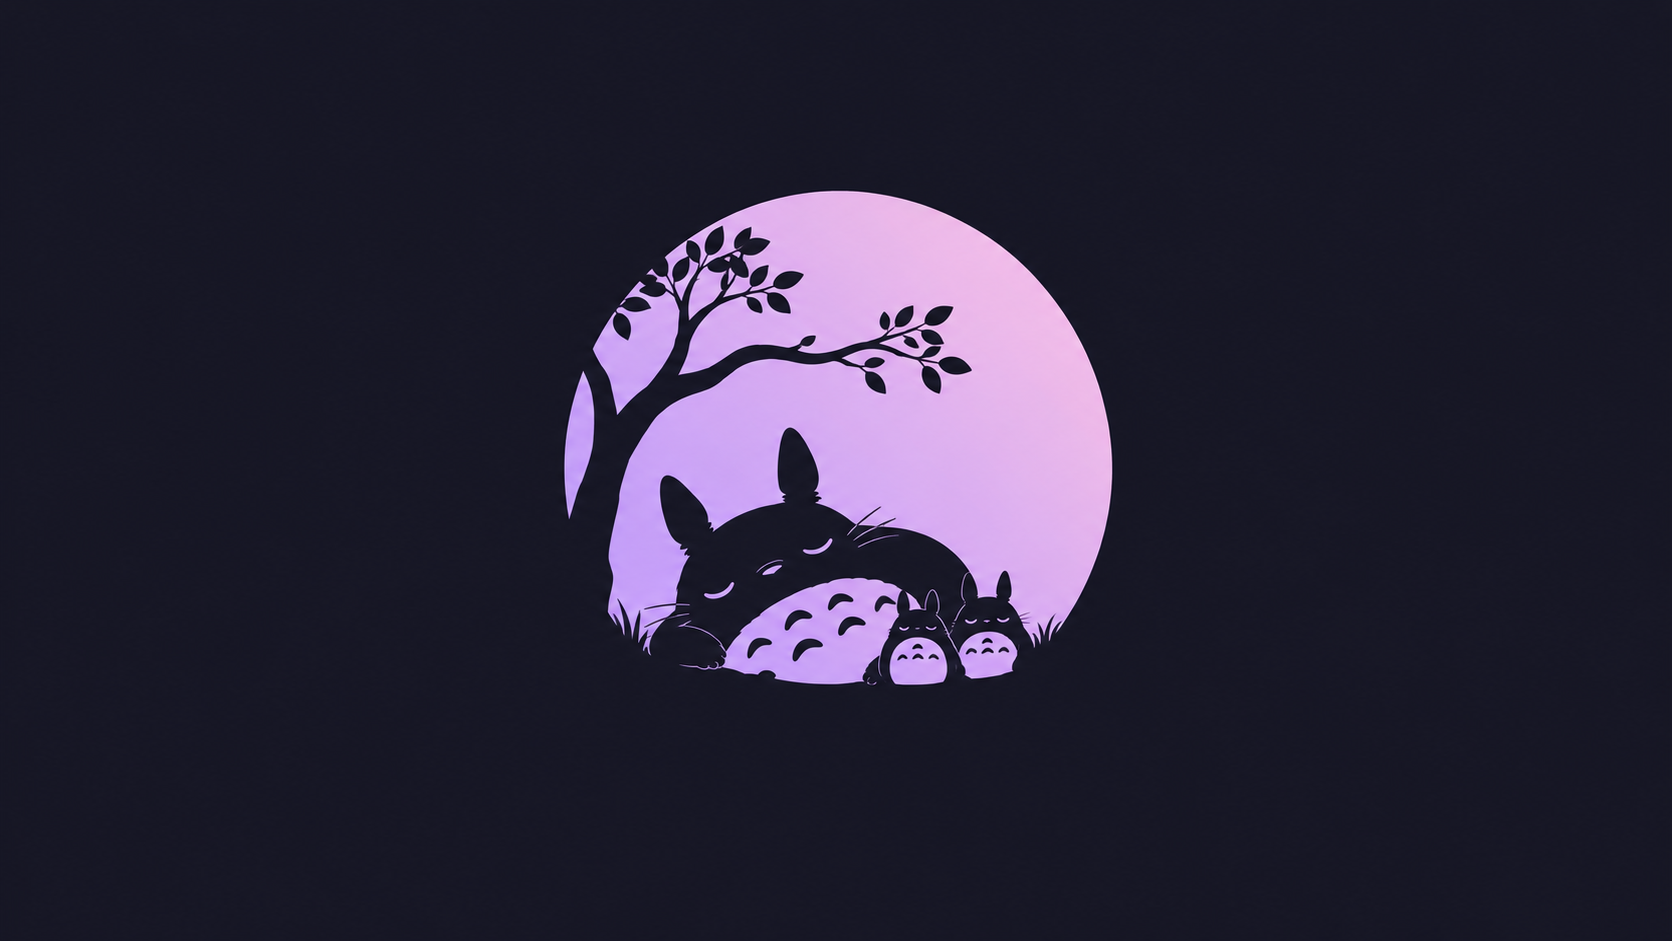
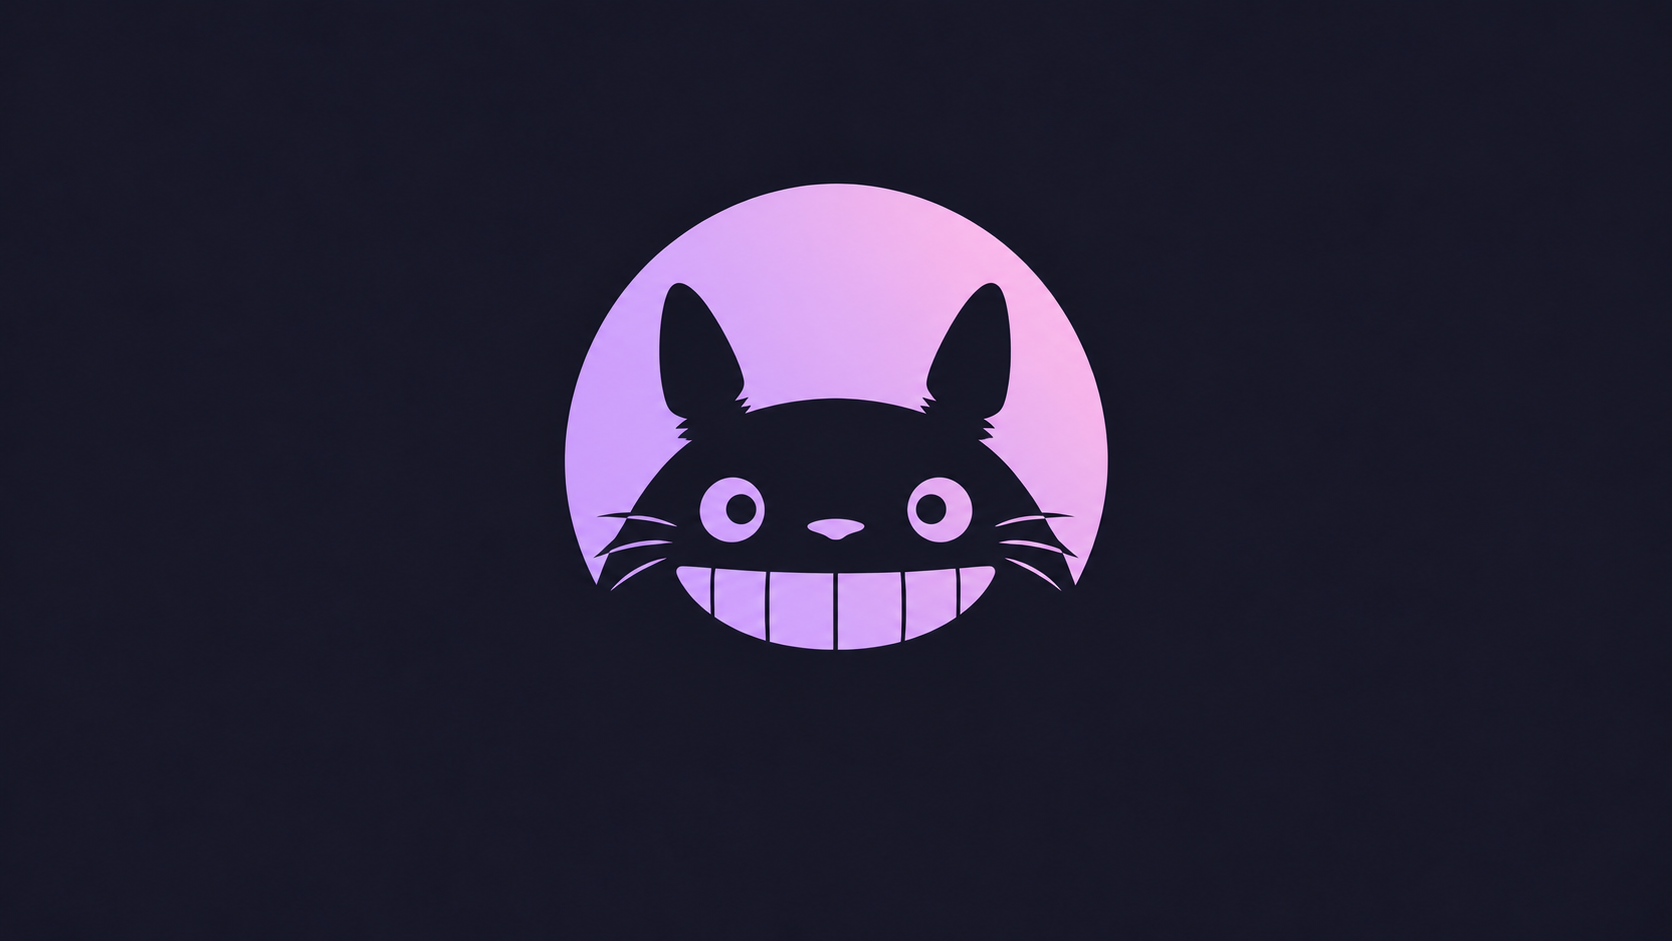
Replace sleeping Totoro scene with smiling face close-up

Changed region(s): [[0.3421, 0.1849, 0.6842, 0.7396], [0.5598, 0.2157, 0.5909, 0.2465]]

diff --git a/docs/CATPPUCCIN-WALLPAPERS.md b/docs/CATPPUCCIN-WALLPAPERS.md
@@ -7,7 +7,7 @@ Created with the built-in image generation tool on 11 October 2026. The first wa
 All paths below are relative to `assets/wallpapers/`.
 
 - `catppuccin__totoro-leaf-umbrella.png`
-- `catppuccin__totoro-sleepy-tree.png`
+- `catppuccin__totoro-sleepy-tree.png` (now a smiling face close-up; filename retained for saved wallpaper selections)
 - `catppuccin__totoro-soot-sprites.png`
 - `catppuccin__totoro-log-walk.png`
 - `omarchy-catppuccin-latte__studio-2.png` (recoloured hills)
@@ -22,7 +22,7 @@ The Catppuccin catalogue puts the untouched original first, followed by the four
 Use case: illustration-story. One landscape 16:9 desktop wallpaper per scene. Reference `catppuccin.webp` is a style and palette reference only. Match its minimalist clean silhouette illustration: solid dark navy background #181825, a large central lavender-to-pastel-pink circular moon (#cba6f7 to #f5c2e7), dark silhouette characters, lavender negative-space facial/belly details, vast calm empty space. Recognizable pointed ears, whiskers and belly chevrons. No lettering, logos, watermarks, photorealism, collage, complex background or additional bright colours. Preserve the reference unchanged.
 
 1. Full-body Totoro standing underneath a large leaf umbrella, a few tiny soot sprites around his feet, framed within the centered pastel circular moon.
-2. Totoro sleeping curled beneath a small stylized tree, with two tiny companion Totoros sitting beside him inside the moon. Sparse silhouette branches inside the circle.
+2. Close-up of Totoro’s cheerful face with his iconic wide toothy grin, framed by the lavender-pink moon. This replaces the original sleeping-under-the-tree scene.
 3. Totoro sitting looking upward with a small Totoro companion, a few floating soot sprites and sparse leaf silhouettes, all contained in the moon.
 4. Totoro standing on a gently arched log with a leaf on his head, small and medium Totoro companions walking behind him, and a few soot sprites perched on the log. Circle frames the quiet scene.
 
@@ -45,3 +45,7 @@ Use case: style-transfer. Recolour image 1 ONLY; image 2 is COLOUR PALETTE REFER
 ### Studio 5
 
 Use case: style-transfer. Recolour image 1 ONLY; image 2 is COLOUR PALETTE REFERENCE ONLY. Preserve image 1's 16:9 landscape aspect ratio, open upper background, circular sun position and size, low layered hill silhouettes and entire composition. Replace cool white, bright magenta sun and saturated blue hills with the warm cream, peach, very soft pastel pink, pale lilac, muted mint and powder blue colours from image 2 (catppuccin-latte). Warm cream-to-peach background, soft peach-pink sun, gently blended pastel lilac/powder-blue/mint hills, no saturated colours. The scene should feel like a sibling of the soft first Latte wallpaper. No new objects, text, logos, watermark or collage. One finished wallpaper, ideally 2560x1440.
+
+## Smiling close-up replacement prompt
+
+Use case: precise-object-edit. Asset: 16:9 landscape desktop wallpaper. Replace the scene in the reference image: remove tree, sleeping Totoros, small companions, grass and body/belly. Instead create a CLOSE-UP of Totoro's face with his iconic enormous cheerful toothy grin, rounded cheeks, small nose, round eyes, whiskers and pointed ears. Face fills most of the existing central lavender-to-pastel-pink circular moon. Crop at chin/neck, no full body. Big friendly wide smile with a single row of broad pale lavender teeth separated by simple dark lines, recognizable happy Totoro expression. Preserve reference's minimalist clean navy silhouette illustration style, solid dark navy #181825 background, central circular lavender #cba6f7 to soft pink #f5c2e7 gradient and large empty space surrounding the circle. Face dark navy silhouette with lavender negative-space eyes and smile, no realistic fur, no new colours. No tree, other characters, text, logo, watermark or collage. One finished wallpaper, ideally 3840x2160. Keep composition calming and suitable for desktop.
